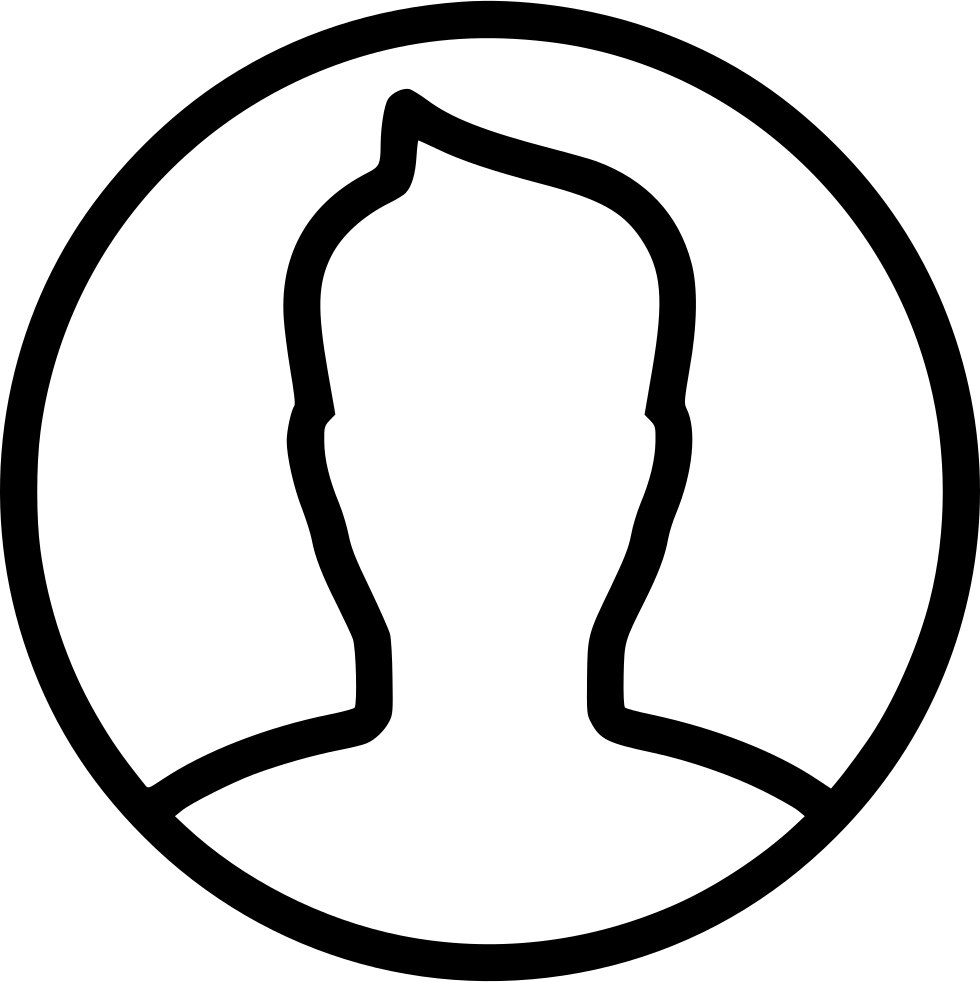
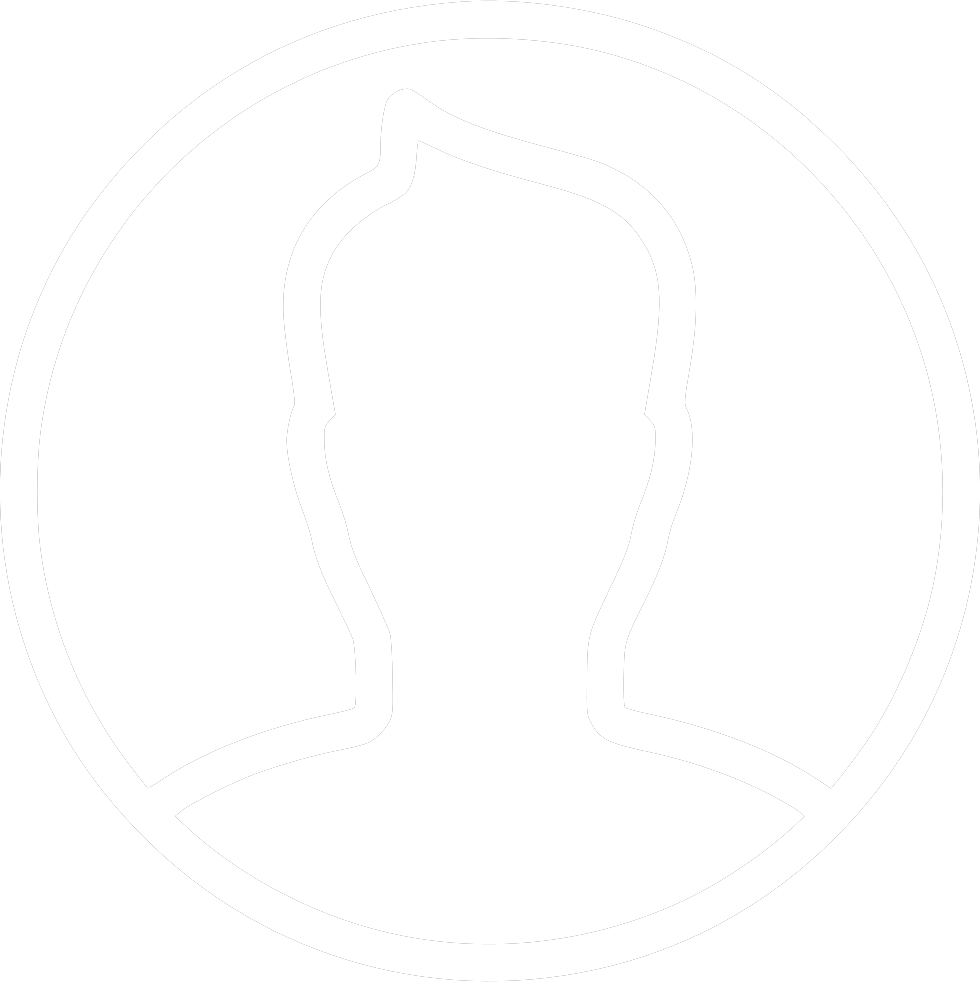
styles

Changed region(s): [[0.0, 0.0, 1.0, 1.0]]

diff --git a/src/redux/profileReducer.ts b/src/redux/profileReducer.ts
@@ -1,4 +1,4 @@
-import {profileAPI} from "../api/api";
+import {profileAPI, usersAPI} from "../api/api";
 import {PhotosType, PostType, ProfileType} from "../types/types";
 import {ThunkAction} from "redux-thunk";
 import {AppStateType, InferActionsTypes} from "./store";
@@ -10,7 +10,8 @@ let initialState = {
     ] as Array<PostType>,
     profile: null as null | ProfileType,
     isFetching: true,
-    status: ""
+    status: "",
+    amountOfFollowed: 0
 }
 
 export type InitialStateType = typeof initialState;
@@ -57,6 +58,11 @@ const profileReducer = (state = initialState, action: ActionsTypes): InitialStat
                 ...state,
                 isFetching: action.isFetching
             }
+        case 'profile/SET_AMOUNT_OF_FOLLOWED':
+            return {
+                ...state,
+                amountOfFollowed: action.amountOfFollowed
+            }
         default:
             return state;
     }
@@ -72,6 +78,7 @@ export const actions = {
     savePhotoSuccess: (photos: PhotosType) => ({type: 'profile/SAVE_PHOTO_SUCCESS', photos} as const),
     saveProfileInfoSuccess: (profileInfo: ProfileType) => ({type: 'profile/SAVE_PROFILE_INFO_SUCCESS', profileInfo} as const),
     toggleIsFetching: (isFetching: boolean) => ({type: 'profile/TOGGLE_IS_FETCHING', isFetching} as const),
+    setAmountOfFollowed: (amountOfFollowed: number) => ({type: 'profile/SET_AMOUNT_OF_FOLLOWED', amountOfFollowed} as const),
 }
 
 type ThunkType = ThunkAction<Promise<void>, AppStateType, unknown, ActionsTypes>;
@@ -81,6 +88,8 @@ export const getProfile = (userID: number): ThunkType => async (dispatch) => {
     let data = await profileAPI.getProfile(userID);
     dispatch(actions.setUserProfile(data));
     dispatch(actions.toggleIsFetching(false));
+    let userData = await usersAPI.getUsers(1, 10, "", true);
+    dispatch(actions.setAmountOfFollowed(userData.totalCount));
 }
 export const getStatus = (userID: number): ThunkType => async (dispatch) => {
     dispatch(actions.toggleIsFetching(true));

diff --git a/src/components/Profile/ProfileInfo/ProfileInfo.tsx b/src/components/Profile/ProfileInfo/ProfileInfo.tsx
@@ -7,7 +7,7 @@ import ProfileDataForm from "./ProfileDataForm/ProfileDataForm";
 import ProfileData from "./ProfileData/ProfileData";
 import {ProfileType} from "../../../types/types";
 import {useSelector} from "react-redux";
-import {getProfileIsFetching} from "../../../redux/usersSelectors";
+import {getAmountOfFollowed, getProfileIsFetching} from "../../../redux/selectors";
 import UploadIcon from '@mui/icons-material/Upload';
 
 type PropsType = {
@@ -31,13 +31,12 @@ const ProfileInfo: React.FC<PropsType> = ({profile, status, updateStatus, isOwne
         if (e.target.files.length)
             savePhoto(e.target.files[0]);
     }
-
     return (
         <div className={s.profile_info}>
             <div className={s.avatar}>
                 {isFetching ? <Preloader/> :
                     <div className={s.image}>
-                        <img src={profile.photos.large !== undefined ? profile.photos.large : avatar} alt="" />
+                        <img src={profile.photos.large !== null ? profile.photos.large : avatar} alt="" />
                         {isOwner ?
                             <span className={s.fileUpload}>
                             <input type="file" onChange={onAvatarSelected} className={s.upload} id="file-input"/>
@@ -54,7 +53,7 @@ const ProfileInfo: React.FC<PropsType> = ({profile, status, updateStatus, isOwne
                         }} className={isEnabled ? s.edit : s.edit_disabled}>Edit profile</button> : null}
                 </div>
             </div>
-            <div className={s.info}>
+            <div className={editMode ? s.editing : s.info}>
                 <div className={s.upper}>
                     <div className={s.name}>{profile.fullName}</div>
                     <span className={s.status}><ProfileStatus status={status} updateStatus={updateStatus} isOwner={isOwner}/></span>

diff --git a/src/components/Profile/Profile.tsx b/src/components/Profile/Profile.tsx
@@ -2,6 +2,9 @@ import React from 'react';
 import ProfileInfo from "./ProfileInfo/ProfileInfo";
 import MyPostsContainer from "./MyPosts/MyPostsContainer";
 import {ProfileType} from "../../types/types";
+import {useSelector} from "react-redux";
+import {getAmountOfFollowed} from "../../redux/selectors";
+import s from './Profile.module.css'
 
 type PropsType = {
     isOwner: boolean
@@ -13,12 +16,19 @@ type PropsType = {
 }
 
 const Profile: React.FC<PropsType> = (props) => {
+    const amountOfFollowed = useSelector(getAmountOfFollowed);
     return (
         <div>
             <ProfileInfo isOwner={props.isOwner} profile={props.profile} status={props.status}
                          updateStatus={props.updateStatus} savePhoto={props.savePhoto}
                          saveProfileInfo={props.saveProfileInfo}/>
-            <MyPostsContainer/>
+            {props.isOwner ? <div className={s.lower}>
+                <div className={s.amount_wrapper}>
+                    <div className={s.amount_string}>Amount of followed:</div>
+                    <div className={s.amount}>{amountOfFollowed}</div>
+                </div>
+                <MyPostsContainer/>
+            </div> : null}
         </div>
     );
 };

diff --git a/src/redux/selectors.ts b/src/redux/selectors.ts
@@ -1,0 +1,44 @@
+import {createSelector} from "@reduxjs/toolkit";
+import {AppStateType} from "./store";
+
+export const getUsersSelector = (state: AppStateType) => {
+    return state.usersPage.users;
+}
+
+export const getUsers = createSelector(getUsersSelector, (users) => {
+    return users.filter(u => true);
+});
+
+export const getPageSize = (state: AppStateType) => {
+    return state.usersPage.pageSize;
+}
+
+export const getTotalUsersCount = (state: AppStateType) => {
+    return state.usersPage.totalUsersCount;
+}
+
+export const getCurrentPage = (state: AppStateType) => {
+    return state.usersPage.currentPage;
+}
+
+export const getUsersIsFetching = (state: AppStateType) => {
+    return state.usersPage.isFetching;
+}
+
+export const getProfileIsFetching = (state: AppStateType) => {
+    return state.profilePage.isFetching;
+}
+
+export const getFollowingInProcess = (state: AppStateType) => {
+    return state.usersPage.followingInProcess;
+}
+
+export const getUsersFilter = (state: AppStateType) => {
+    return state.usersPage.filter;
+}
+
+export const getAmountOfFollowed = (state: AppStateType) => {
+    return state.profilePage.amountOfFollowed;
+}
+
+

diff --git a/src/components/Profile/ProfileInfo/ProfileInfo.module.css b/src/components/Profile/ProfileInfo/ProfileInfo.module.css
@@ -9,6 +9,7 @@
     border-radius: 5px;
     border: 1px solid #5a5a5a;
     padding: 10px;
+    margin-bottom: 50px;
 }
 
 .image:hover .fileUpload {
@@ -85,6 +86,16 @@
     padding-left: 15px;
 }
 
+.editing {
+    color: white;
+    margin-left: 20px;
+    width: 690px;
+    height: 380px;
+    border: 1px solid #5a5a5a;
+    border-radius: 5px;
+    padding-left: 15px;
+}
+
 .upper {
     width: 650px;
     border-bottom: 1px solid #5a5a5a;
@@ -105,10 +116,7 @@
 
 .form {
     white-space: nowrap;
-}
-
-.form .columns:first-child {
-
+    height: 350px;
 }
 
 .columns {
@@ -141,7 +149,9 @@
 }
 
 .form button {
-    margin-top: 225px;
+    /*margin-top: 225px;*/
+    /*margin-left: 280px;*/
+    margin-top: 10px;
     margin-left: 280px;
     width: 30px;
     height: 30px;

diff --git a/src/components/Profile/ProfileInfo/ProfileDataForm/ProfileDataForm.tsx b/src/components/Profile/ProfileInfo/ProfileDataForm/ProfileDataForm.tsx
@@ -60,7 +60,7 @@ const ProfileDataForm: React.FC<PropsType> = ({profile, setEditMode, setIsEnable
                         register={register} key={key} contactTitle={key}
                         contactValue={profile.contacts[key]}/>)}
                 </div>
-                <button onClick={() => setIsEnabled(true)}><DoneIcon style={{width: "15px"}}/></button>
+                <div><button onClick={() => setIsEnabled(true)}><DoneIcon style={{width: "15px"}}/></button></div>
             </form>
         </div>
     )

diff --git a/src/redux/usersReducer.ts b/src/redux/usersReducer.ts
@@ -4,7 +4,6 @@ import {UserType} from "../types/types";
 import {ThunkAction} from "redux-thunk";
 import {AppStateType, InferActionsTypes} from "./store";
 import {Dispatch} from "redux";
-import {isBooleanObject} from "util/types";
 
 let initialState = {
     users: [] as Array<UserType>,
@@ -16,7 +15,7 @@ let initialState = {
     filter: {
         term: '',
         friend: null as null | boolean
-    }
+    },
 }
 
 const usersReducer = (state = initialState, action: ActionsTypes): InitialStateType => {

diff --git a/src/components/Users/UsersSearchForm.tsx b/src/components/Users/UsersSearchForm.tsx
@@ -5,7 +5,7 @@ import type {RadioChangeEvent} from 'antd';
 import {ConfigProvider, Input, Radio, Space} from 'antd';
 import TuneIcon from '@mui/icons-material/Tune';
 import {useSelector} from "react-redux";
-import {getUsersFilter} from "../../redux/usersSelectors";
+import {getUsersFilter} from "../../redux/selectors";
 
 type PropsType = {
     onFilterChanged: (filter: FilterType) => void

diff --git a/src/components/Users/UsersContainer.tsx b/src/components/Users/UsersContainer.tsx
@@ -2,7 +2,7 @@ import React from 'react';
 import {useSelector} from 'react-redux';
 import Users from './Users';
 import Preloader from '../Common/Preloader/Preloader';
-import {getUsersIsFetching} from "../../redux/usersSelectors";
+import {getUsersIsFetching} from "../../redux/selectors";
 import {Navigate} from "react-router-dom";
 import {AppStateType} from "../../redux/store";
 

diff --git a/src/components/Profile/Profile.module.css b/src/components/Profile/Profile.module.css
@@ -1,0 +1,24 @@
+.amount_wrapper {
+    display: table-cell;
+    width: 100px;
+    height: 140px;
+    border: 1px solid #5a5a5a;
+    border-radius: 5px;
+    color: white;
+    text-align: center;
+    vertical-align: middle;
+}
+
+.amount {
+    font-size: 72px;
+    font-weight: 600;
+
+}
+
+.amount_string {
+    font-size: 14px;
+}
+
+.lower {
+    display: flex;
+}

diff --git a/src/components/Header/Header.module.css b/src/components/Header/Header.module.css
@@ -2,6 +2,7 @@
     grid-area: h;
     background-color: #232323;
     border-bottom: 1px solid #282828;
+    display: flex;
 }
 
 .header img {
@@ -10,9 +11,10 @@
 }
 
 .login {
-    float: right;
+    /*float: right;*/
     color: white;
-    margin: 12px 375px 0 0;
+    margin: 12px 0 0 970px;
+    /*margin: 12px 375px 0 0;*/
 }
 
 .login a {

diff --git a/src/components/Header/Header.tsx b/src/components/Header/Header.tsx
@@ -1,6 +1,6 @@
 import React from 'react';
 import s from './Header.module.css'
-import icon from '../../img/icon.png'
+import icon from '../../img/iconW.png'
 import {NavLink} from "react-router-dom";
 import LogoutIcon from '@mui/icons-material/Logout';
 
